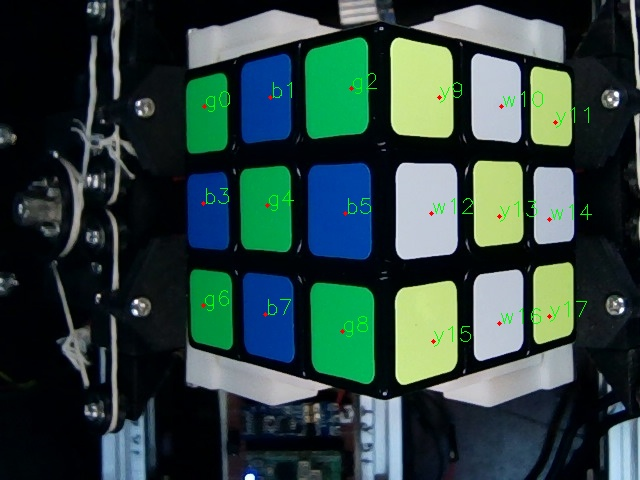
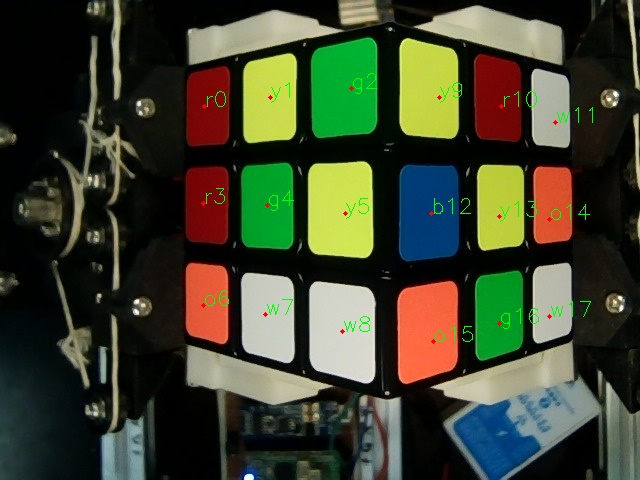
update cv2

diff --git a/Software/pc_sida_py/cubeColorTEST.py b/Software/pc_sida_py/cubeColorTEST.py
@@ -698,7 +698,7 @@ def motion_optimal_one(motionResult):  # 动作优化函数one
 def colorDec_Up(hs,thes,v):
     if hs[1] < thes[7]:
         return 'w'
-    elif thes[0] <= hs[0] < thes[2]:
+    elif hs[0] < thes[2]:
         if hs[1] < thes[8]:
             return 'o'
         else :
@@ -709,8 +709,6 @@ def colorDec_Up(hs,thes,v):
         return 'g'
     elif thes[4] < hs[0] < thes[5]:
         return 'b'
-    elif thes[5] < hs[0] < thes[6]:
-        return 'r'
     else :
         return 'n'
 
@@ -736,24 +734,24 @@ def colorDec_Down(hs,thes,v):
 
     
 
-def colorDec_LR(hs,thes,h):
+def colorDec_LR(hs,thes,v):
     if hs[1] < thes[7]:
         return 'w'
-    elif thes[0] <= hs[0] <= thes[1] and h<thes[8]:
-        return 'r'
-    elif thes[0] <= hs[0] < thes[1] and h>thes[8]:
-        return 'o'
-    elif thes[1] < hs[0] < thes[2]:
+    elif hs[0] <= thes[1]:
+        if v < thes[8]:
+            return 'r'
+        else :
+            return 'o'
+    elif thes[1] < hs[0] <= thes[2]:
         return 'y'
-    elif thes[2] < hs[0] < thes[3]:
+    elif thes[2] < hs[0] <= thes[3]:
         return 'g'
-    elif thes[3] < hs[0] < thes[4]:
+    elif thes[3] < hs[0] <= thes[4]:
         return 'b'
     else :
         return 'n'
     
 def colorDec_Hole3(hs,thes,v):
-
     if (hs[0] < thes[0]):
         if(v < thes[3]):
             return 'r'
@@ -766,30 +764,29 @@ def colorDec_Hole3(hs,thes,v):
         else :
             return 'y'
 
-    elif (hs[0] < thes[2]):
-        if(hs[1] < thes[5]):
-            return 'b'
-        else :
-            return 'g'
-
-    else :
-        return 'n'
-    
-def colorDec_Hole2(hs,thes,h):
-    if hs[1] < thes[7]  and hs[0]<50:
-        return 'w'
-    if (thes[0] < hs[0] < thes[1] and h < thes[5]) or (hs[0] < -6):
-        return 'r'
-    elif thes[0] < hs[0] < thes[1] and h > thes[5]:
-        return 'o'
-    elif thes[1] < hs[0] < thes[2] :
-        return 'y'
-    elif thes[2] < hs[0] < thes[3] :
+    elif (thes[1]< hs[0] <= thes[2]):
         return 'g'
-    elif thes[3] < hs[0] < thes[4] :
-        return 'b'
     else :
-        return 'n'
+        return 'b'
+
+    
+def colorDec_Hole2(hs,thes,v):
+    if (hs[0] < thes[0]):
+        if(v < thes[3]):
+            return 'r'
+        else :
+            return 'o'
+
+    elif (hs[0] < thes[1]):
+        if(hs[1] < thes[4]):
+            return 'w'
+        else :
+            return 'y'
+
+    elif (thes[1]< hs[0] <= thes[2]):
+        return 'g'
+    else :
+        return 'b'
 
 flag = 0
 while True:
@@ -925,7 +922,7 @@ while True:
     # 坐标右
     PixelPosXy_3 = [[350, 435], [242, 368], [154, 256], 
                     [450, 361], [349, 243],  [244, 157], 
-                    [538, 234], [439, 139], [310, 80],
+                    [538, 234], [439, 139], [330, 54],
                     ]
 
 
@@ -981,9 +978,9 @@ while True:
                     [-3,3,13,60,90,155,180,75,205],[-3,3,13,60,90,155,180,75,205],[-3,3,13,60,90,155,180,75,205],
 
                     #L面 同
-                    [15,46,78,174,150,0,0,0,0],[15,46,78,174,150,0,0,0,0],[15,46,78,174,150,0,0,0,0],
-                    [15,46,78,174,150,0,0,0,0],[15,46,78,174,150,0,0,0,0],[15,46,78,174,150,0,0,0,0],
-                    [15,46,78,174,150,0,0,0,0],[15,46,78,174,150,0,0,0,0],[15,46,78,174,150,0,0,0,0],
+                    [15,46,78,162,150,0,0,0,0],[15,46,78,162,150,0,0,0,0],[15,46,78,162,150,0,0,0,0],
+                    [15,46,78,162,150,0,0,0,0],[15,46,78,162,150,0,0,0,0],[15,46,78,162,150,0,0,0,0],
+                    [15,46,78,162,150,0,0,0,0],[15,46,78,162,150,0,0,0,0],[15,46,78,162,150,0,0,0,0],
 
                     #B面  
                     [15,46,78,174,150,0,0,0,0],[15,46,78,174,150,0,0,0,0],[15,46,78,174,150,0,0,0,0],
@@ -991,19 +988,19 @@ while True:
                     [15,46,78,174,150,0,0,0,0],[15,46,78,174,150,0,0,0,0],[15,46,78,174,150,0,0,0,0],
 
                     #D面 
-                    [-9,15,35,85,155,155,180,78,125],[-9,15,57,85,155,155,180,70,125],[-9,15,35,85,155,155,180,60,150],
-                    [-12,15,45,65,120,55,90,190,125],[-9,15,35,85,155,155,180,80,125],[-9,15,35,85,155,155,180,90,125],
-                    [-9,15,35,85,155,155,180,90,125],[-9,15,35,79,120,55,90,190,125],[-9,15,35,85,155,155,180,90,125],
+                    [5,15,35,85,155,155,180,78,194],[5,15,57,85,155,155,180,70,194],[5,15,35,85,155,155,180,60,210],
+                    [15,40,67,125,154,110,0,0,0],[5,15,40,85,155,155,180,80,194],[5,15,35,85,155,155,180,90,194],
+                    [4,15,35,85,155,155,180,90,194],[15,35,67,125,154,110,0,0,0],[5,15,35,85,155,155,180,90,194],
 
                     #U面
-                    [-9,15,57,85,155,155,180,90,125],[15,35,80,125,180,110,0,0,0],[-9,15,57,85,155,155,180,90,125],
-                    [15,35,80,125,180,110,0,0,0],[-9,15,57,85,155,155,180,90,125],[-9,15,57,85,155,155,180,90,125],
-                    [-9,15,57,85,155,155,180,90,125],[-9,15,57,85,155,155,180,90,125],[-9,15,57,85,155,155,180,78,145],
+                    [5,15,57,85,155,155,180,90,194],[15,40,62,125,154,110,0,0,0],[5,15,57,85,155,155,180,90,194],
+                    [15,40,67,125,154,110,0,0,0],[5,15,57,85,155,155,180,90,194],[5,15,57,85,155,155,180,90,194],
+                    [5,15,57,85,155,155,180,90,194],[5,15,57,85,155,155,180,90,194],[5,15,57,85,155,155,180,78,194],
                     ]
 
                     #hole3: [0ro(h) 1yw(h) 2gb[h]  3ro(v) 4yw(s) 5gb(s)]
                     # y:[24 200 x] [26 216 x]
-                    # w:[23 147 x] [23 162 x]
+                    # w:[23 77 x] [23 73 x]
                     # g:[47 167 x] [49 188 x]
                     # b:[51 76 x]  [56 86 x]
                     # r:[10 187 101] [9 209 88]
@@ -1206,8 +1203,8 @@ while True:
         ["RG1" + "LG1" + motion_optimal_three(motionResult) + "RG0" + "LG0", "", ""])
     print(motionResult)
     #S = input('开始复原')
-    ser2 = serial.Serial('COM16', 115200)
+    ser2 = serial.Serial('COM7', 115200)
     ser2.write(roboSend)
     ser2.close()
     flag = 1
-
+ 

diff --git a/Software/pc_sida_py/xy.py b/Software/pc_sida_py/xy.py
@@ -12,7 +12,7 @@ def mouseColor(event, x, y, flags, param):
         print('坐标:', [x, y])
 
 
-dst_white = cv2.imread('11.jpg')  # 读进来是BGR格式
+dst_white = cv2.imread('00.jpg')  # 读进来是BGR格式
 hsv = cv2.cvtColor(dst_white, cv2.COLOR_BGR2HSV)  # 变成HSV格式
 cv2.namedWindow("Color Picker")
 cv2.setMouseCallback("Color Picker", mouseColor)
